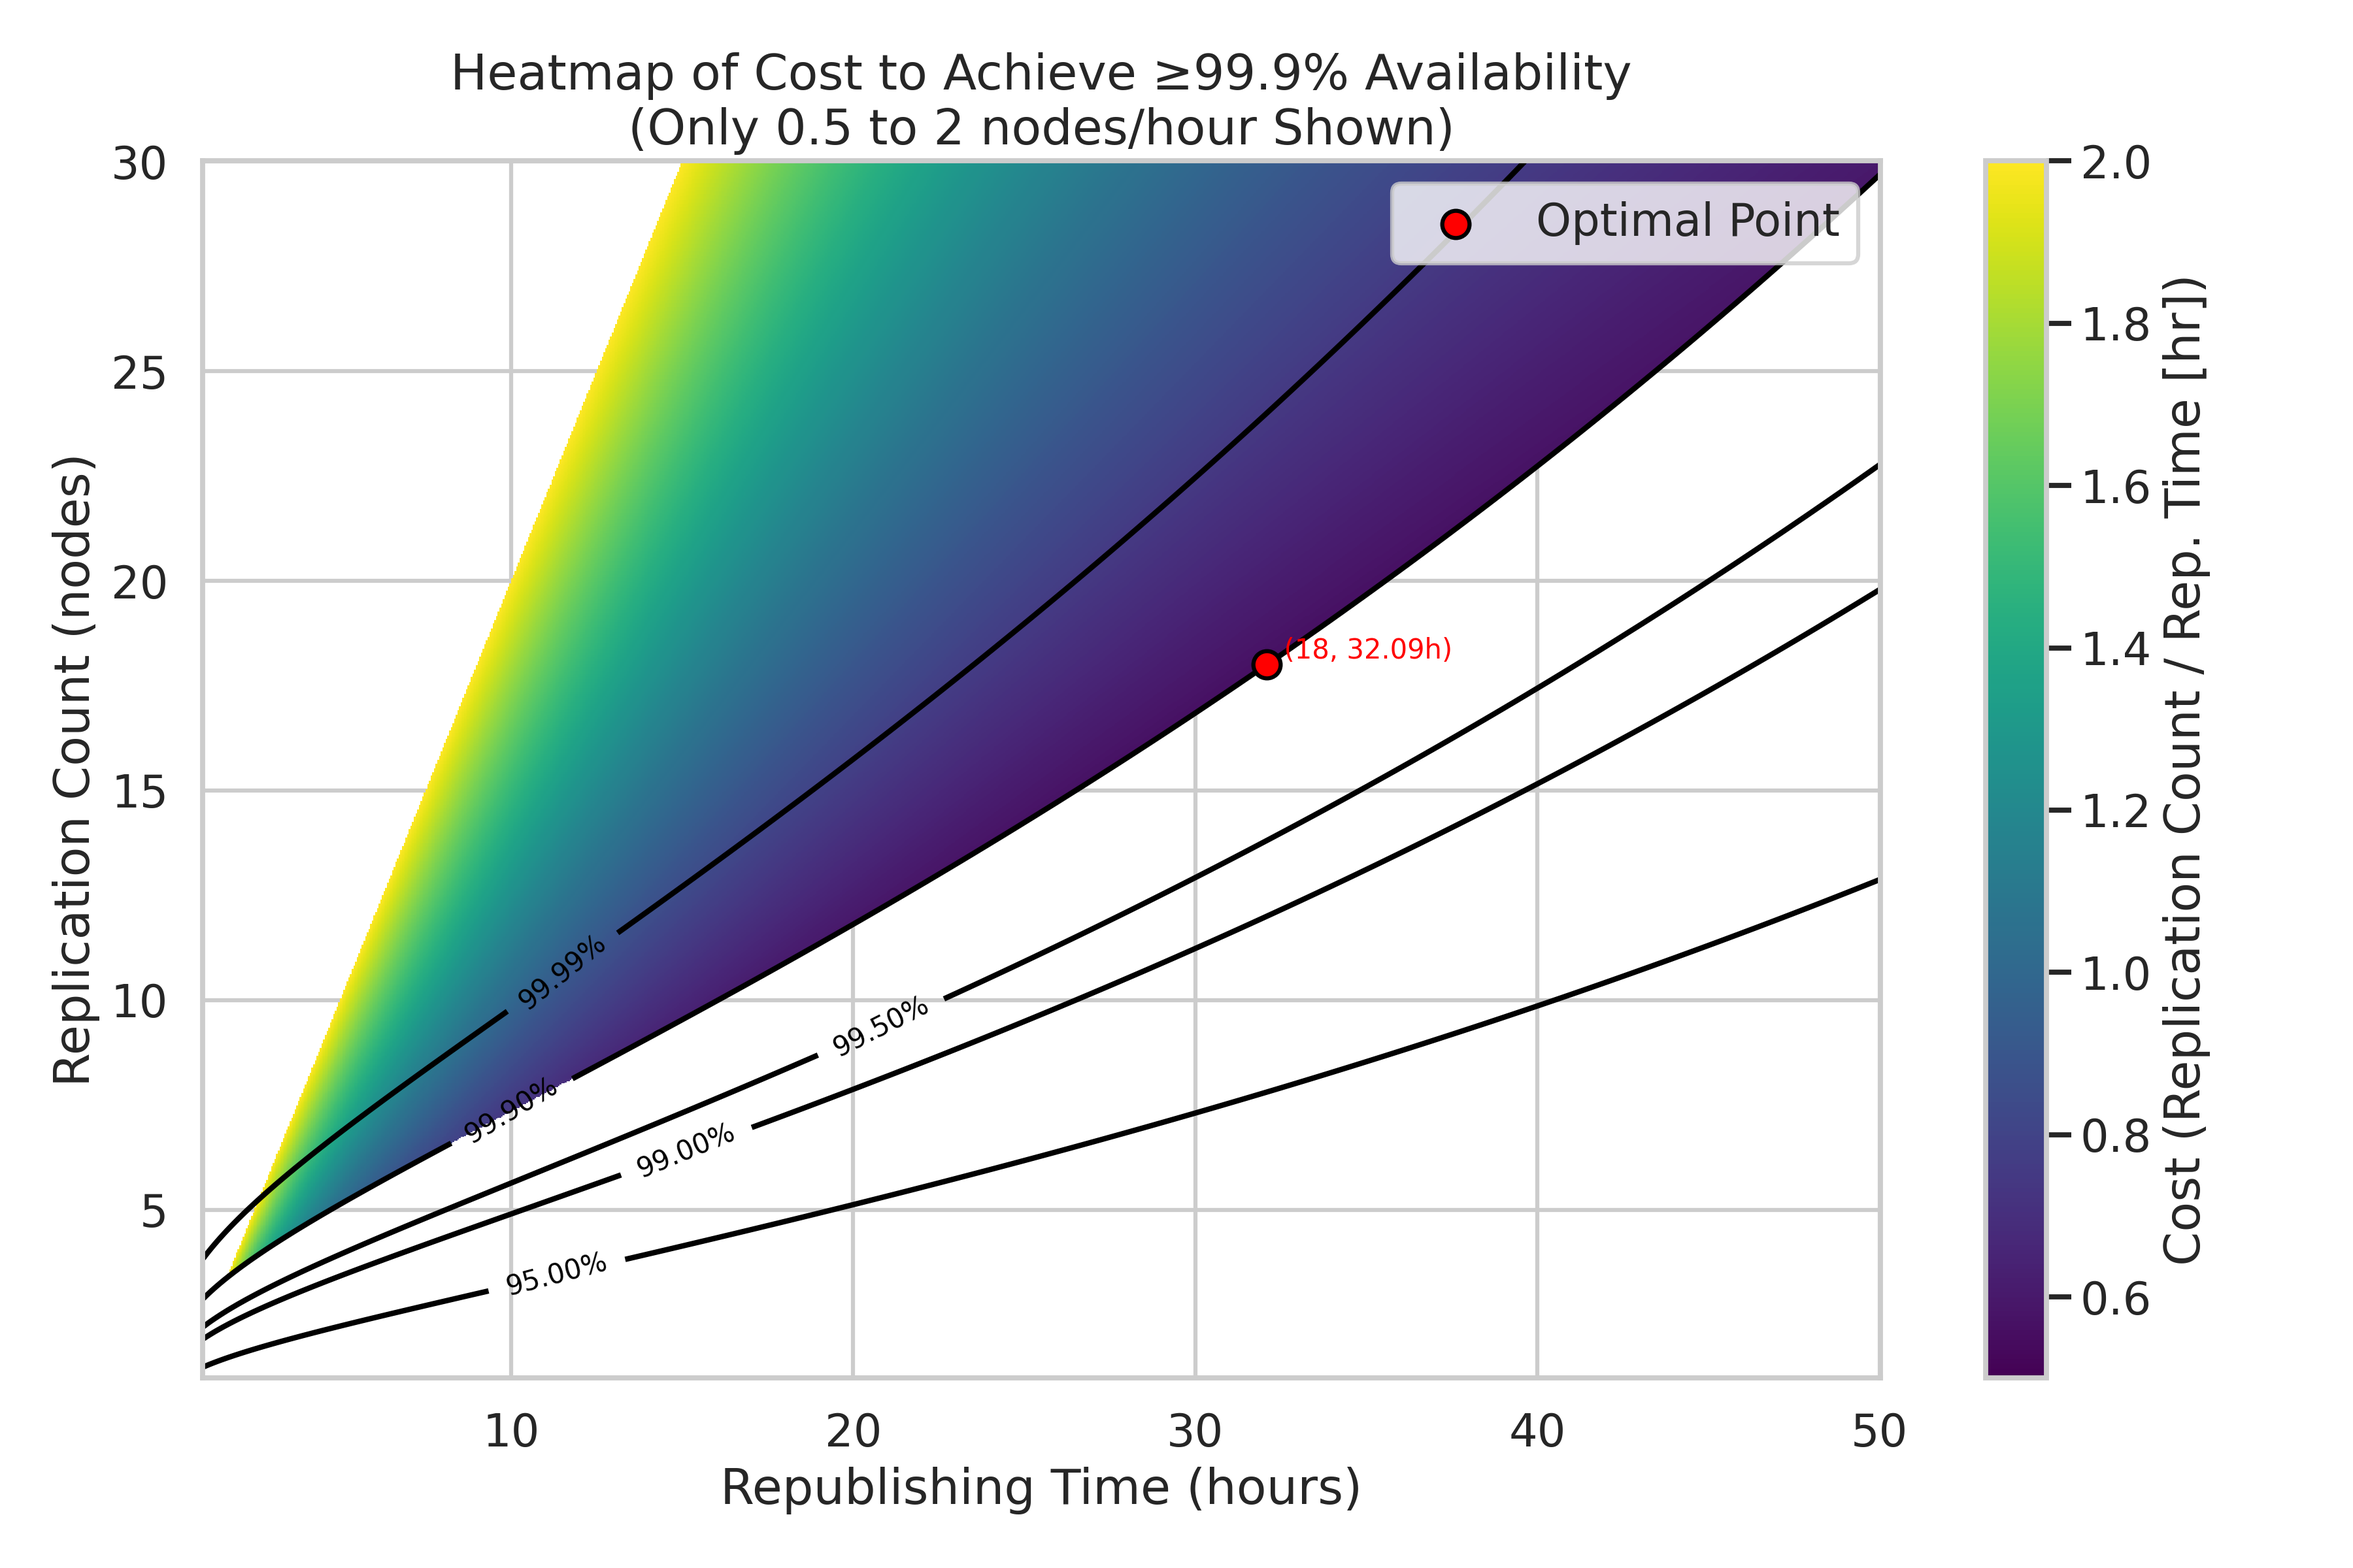
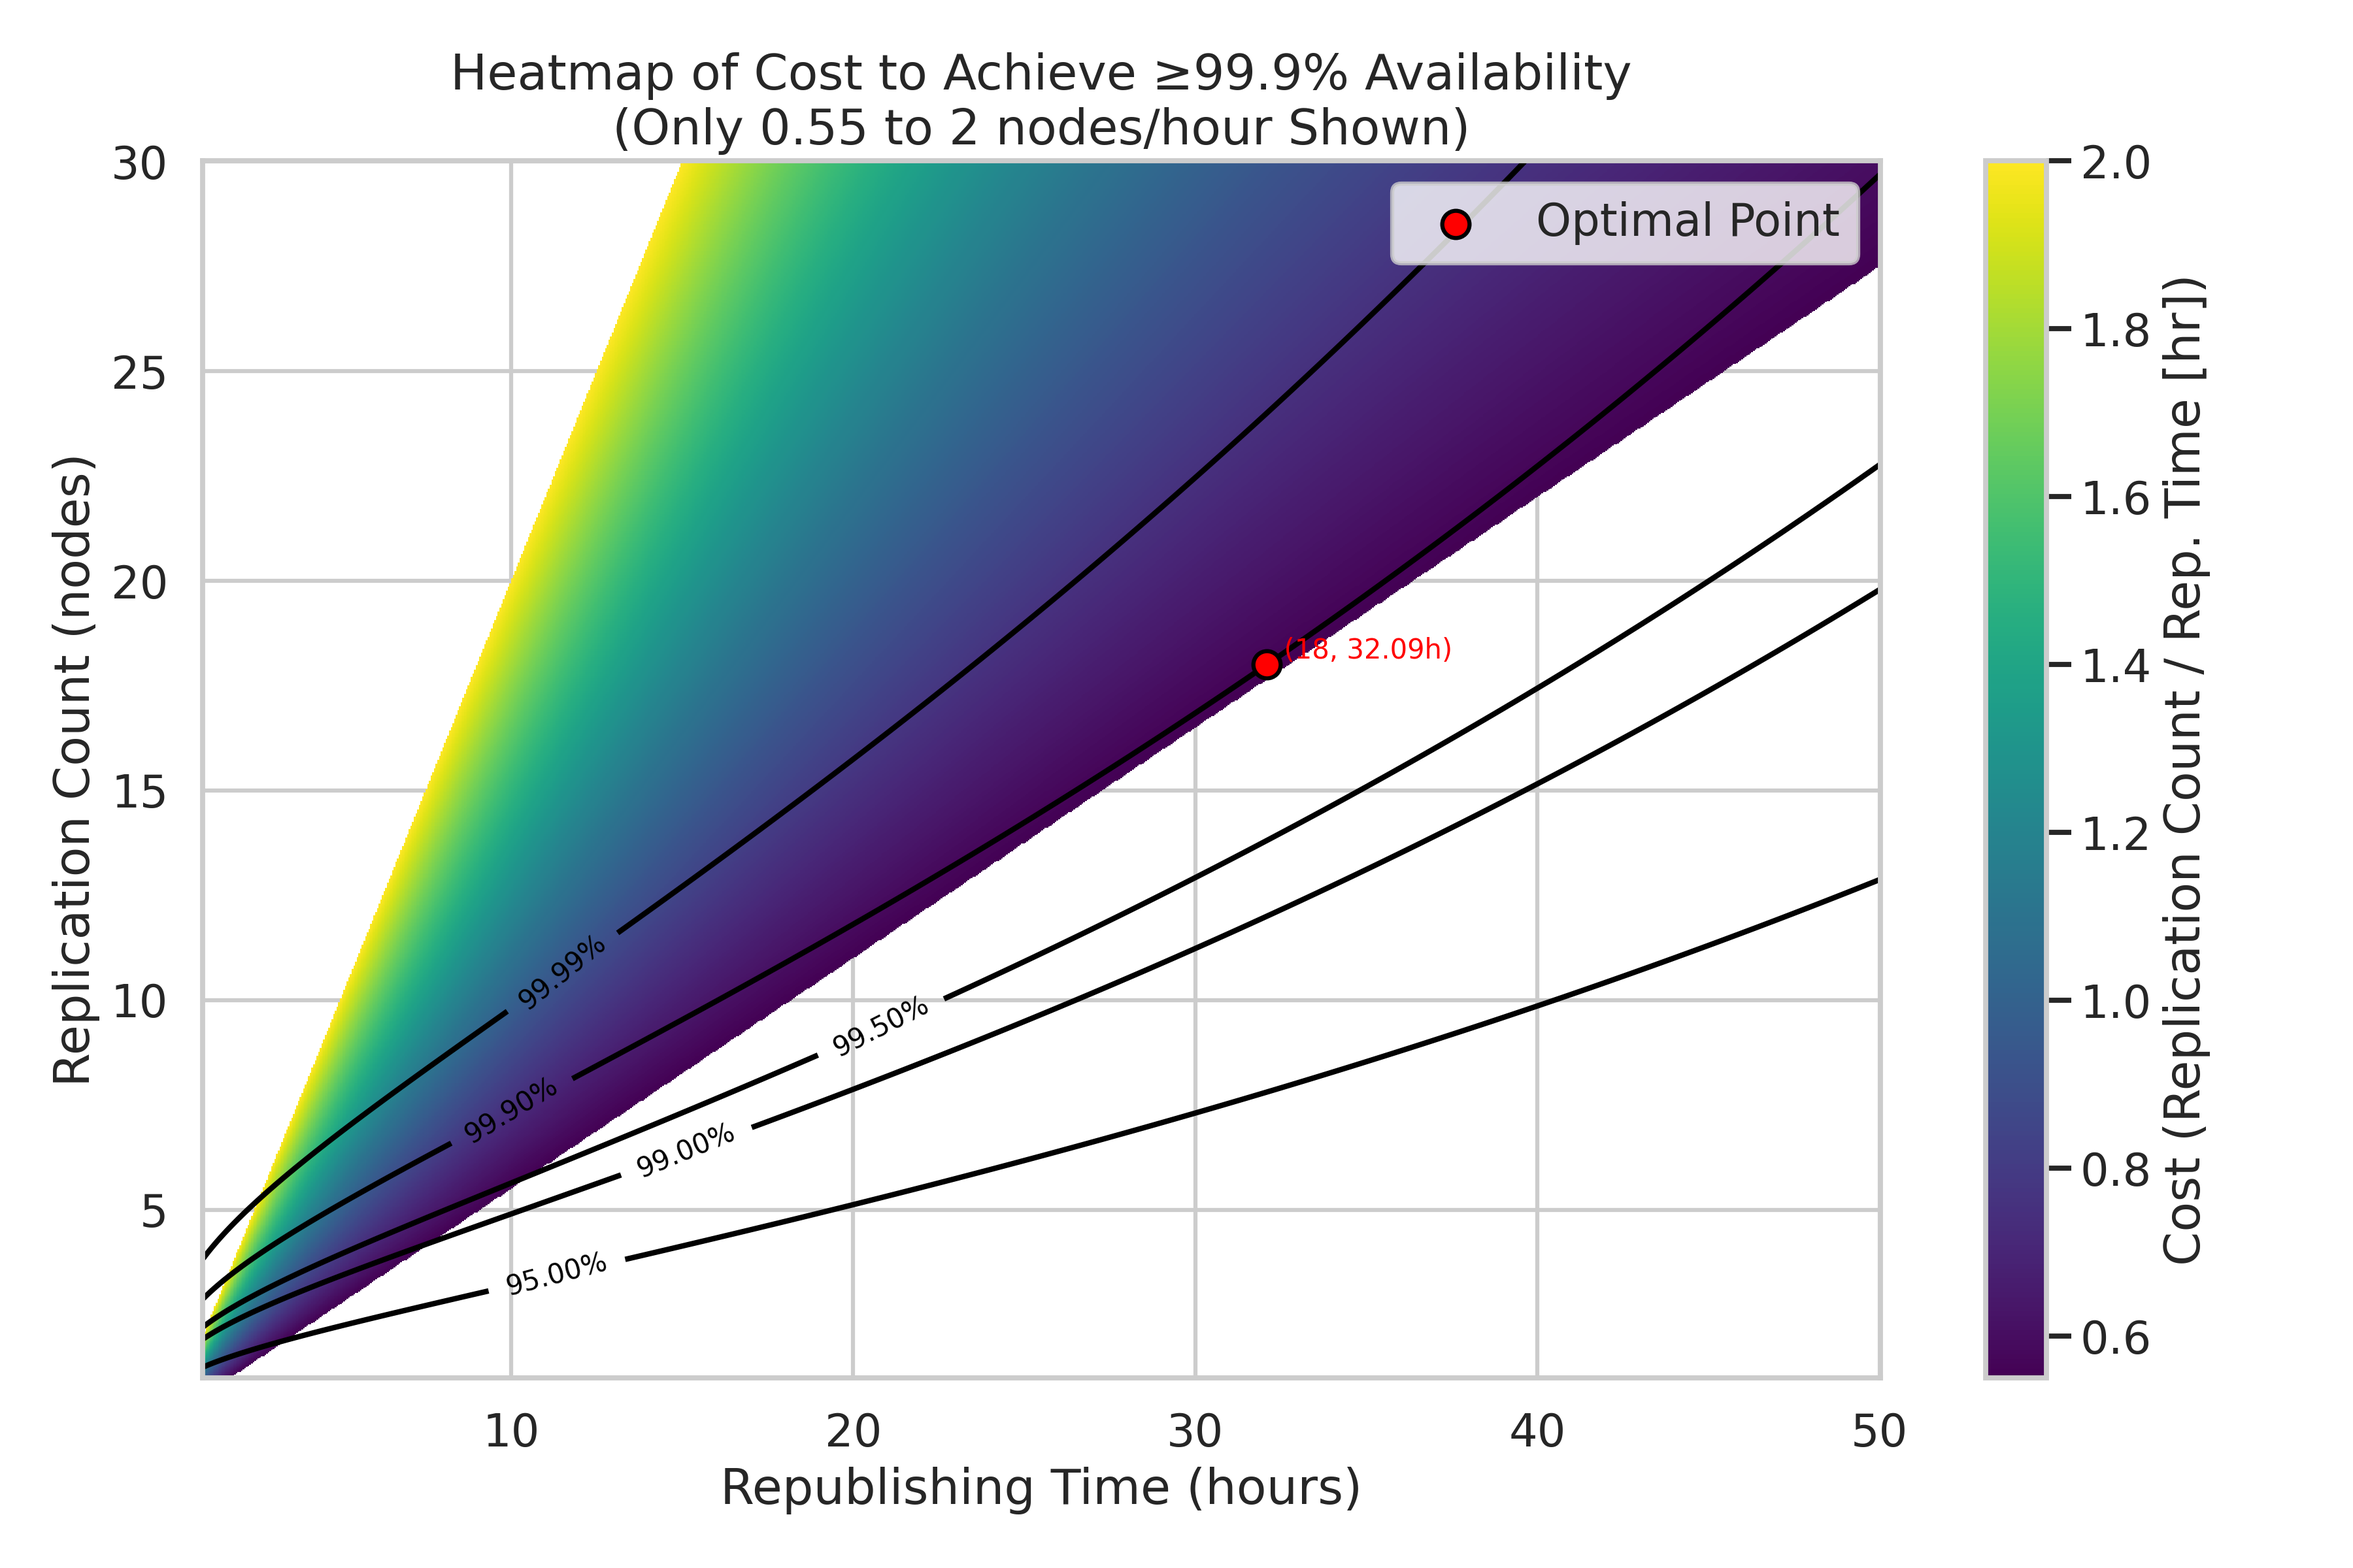
Add same survival configs

diff --git a/analyze_multiple_nodes_storing.py b/analyze_multiple_nodes_storing.py
@@ -146,21 +146,23 @@ def plot_cost_heatmap(lambda_lower, k_upper, target, optimal_n, optimal_t_hours)
     n_values = np.linspace(1, 30, 1000)
     T_grid, n_grid = np.meshgrid(T_hours, n_values)
     T_sec_grid = T_grid * 3600.0  # convert to seconds
+
+    min_color = 0.55
     
     # Compute survival probability for each (n, T).
     p_grid = 1 - (1 - np.exp(- (T_sec_grid / lambda_lower)**k_upper))**n_grid
     # Compute cost if survival probability meets target.
-    cost_grid = np.where(p_grid >= target, n_grid / T_grid, np.nan)
-    cost_grid = np.where((cost_grid >= 0.5) & (cost_grid <= 2), cost_grid, np.nan)
+    cost_grid = n_grid / T_grid
+    cost_grid = np.where((cost_grid >= min_color) & (cost_grid <= 2), n_grid / T_grid, np.nan)
     
     thresholds = [0.95, 0.99, 0.995, 0.999, 0.9999]
     contour_format = lambda x: f"{x*100:.2f}%"
     
     plot_heatmap_generic(T_grid, n_grid, cost_grid, p_grid, thresholds, contour_format,
                          "Republishing Time (hours)", "Replication Count (nodes)",
-                         "Heatmap of Cost to Achieve ≥99.9% Availability\n(Only 0.5 to 2 nodes/hour Shown)",
+                         f"Heatmap of Cost to Achieve ≥99.9% Availability\n(Only {min_color} to 2 nodes/hour Shown)",
                          optimal_t_hours, optimal_n, "Optimal Point",
-                         (0.5, 2), "heatmap_cost.png")
+                         (min_color, 2), "heatmap_cost.png")
 
 # ------------------------
 # Steady-State Heatmap Function
